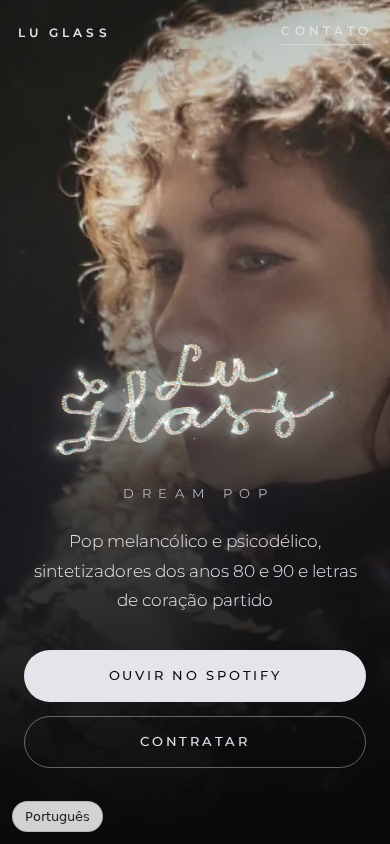
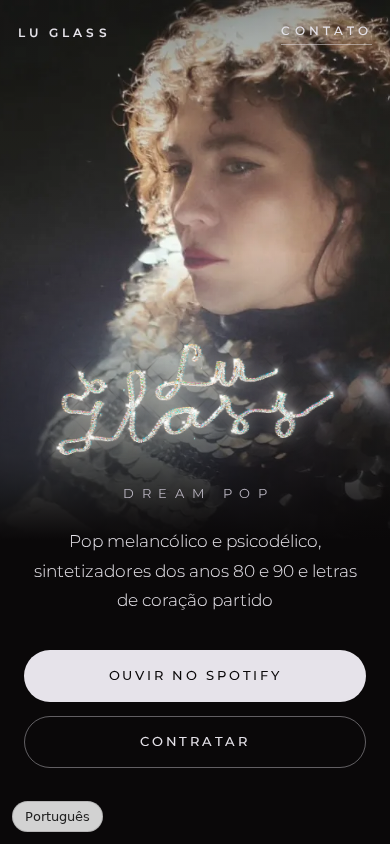
Lu Glass: portada en celular con la foto arriba
Claude-Session: https://claude.ai/code/session_017VmXc4ZjE5bUVoHgBYDs9Z

diff --git a/luglasslanding/index.html b/luglasslanding/index.html
@@ -109,8 +109,9 @@ h1.gen{font-size:13px;letter-spacing:.6em;text-transform:uppercase;font-weight:4
 @media(max-width:900px){
   section{padding:88px 0}
   .hero{align-items:flex-end;padding-bottom:9vh}
-  .hero>img{object-position:62% 25%}
-  .hero:after{background:linear-gradient(0deg,var(--noche) 0%,rgba(10,8,9,.75) 40%,rgba(10,8,9,.15) 75%)}
+  .hero>img{height:64%;object-position:66% 20%}
+  .hero{background:var(--noche)}
+  .hero:after{background:linear-gradient(0deg,var(--noche) 0%,var(--noche) 36%,rgba(10,8,9,.55) 46%,rgba(10,8,9,0) 70%,rgba(10,8,9,.35) 100%)}
   .hero .wrap{justify-content:center}
   .dos,.nuevo{grid-template-columns:1fr;gap:52px}
   .bio .grid{grid-template-columns:1fr;min-height:0}
